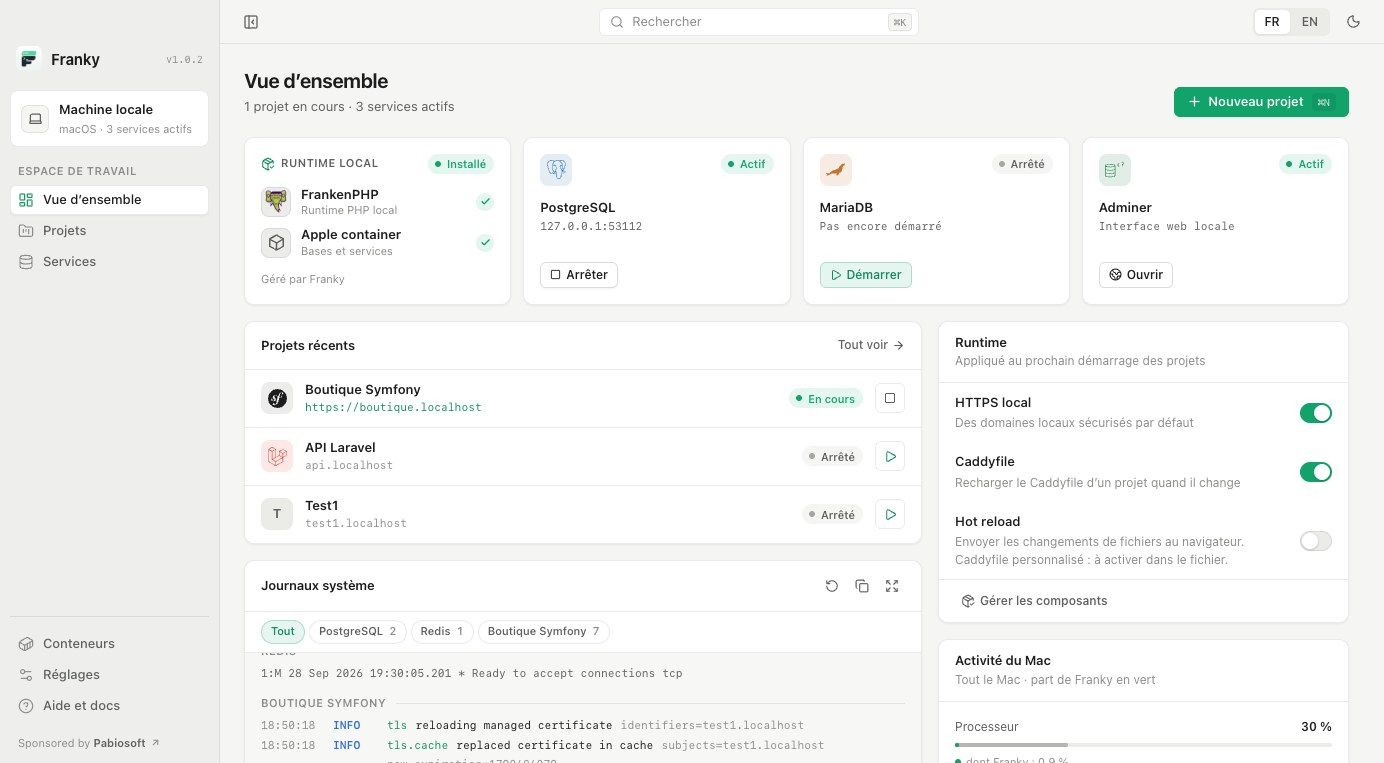
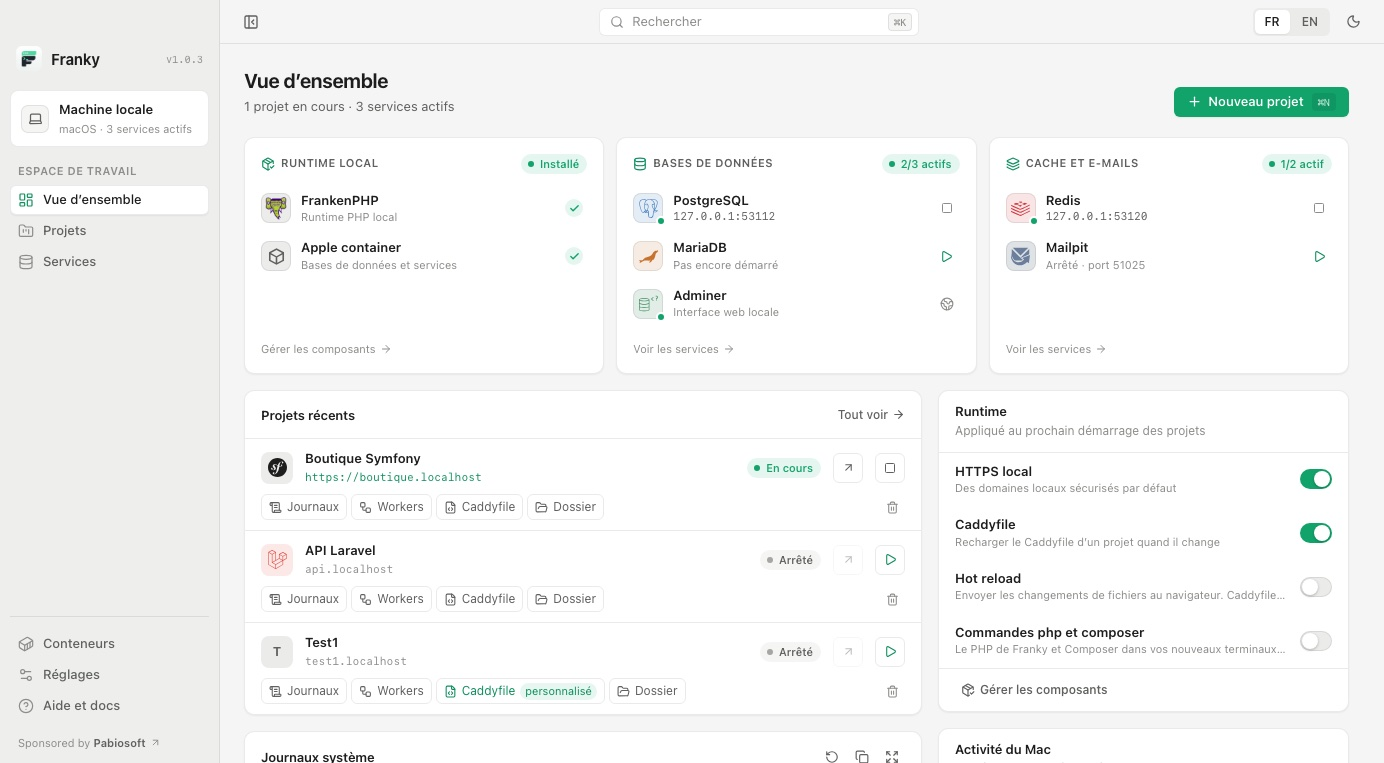
Captures 1.0.3 : vue d'ensemble, projets, services et Windows refaites
L'interface a changé : cartes de services, barre d'outils des projets,
outils des projets récents. FrankenPHP 1.13.5 dans la liste des points
forts, workers détectés mentionnés.

diff --git a/README.md b/README.md
@@ -70,13 +70,13 @@ Franky installe [FrankenPHP](https://frankenphp.dev) et les services dont vos pr
     </td>
     <td width="50%" valign="top">
       <h3><code>php</code> et <code>composer</code> partout</h3>
-      Le PHP de Franky et son Composer dans votre terminal et votre éditeur (PhpStorm, VS Code), sans rien installer d’autre. Workers de file d’attente et rechargement à chaud inclus.
+      Le PHP de Franky et son Composer dans votre terminal et votre éditeur (PhpStorm, VS Code), sans rien installer d’autre. Franky repère les workers dont votre projet a besoin (Messenger, files d’attente Laravel, planificateur…) et le rechargement à chaud est inclus.
     </td>
   </tr>
 </table>
 
 - **Tout reste sur votre ordinateur** : les services n’écoutent que sur `127.0.0.1`, les téléchargements sont vérifiés par empreinte SHA-256.
-- **À jour côté sécurité** : FrankenPHP 1.13.3 et PHP 8.5.12, qui corrige les failles PHP2Shell.
+- **À jour côté sécurité** : FrankenPHP 1.13.5 (Caddy 2.11.9) et PHP 8.5.12.
 - **Mises à jour intégrées** : Franky vous prévient d’une nouvelle version et l’installe en un clic, après en avoir vérifié la signature.
 - **En français et en anglais**, en thème clair ou sombre.
 
